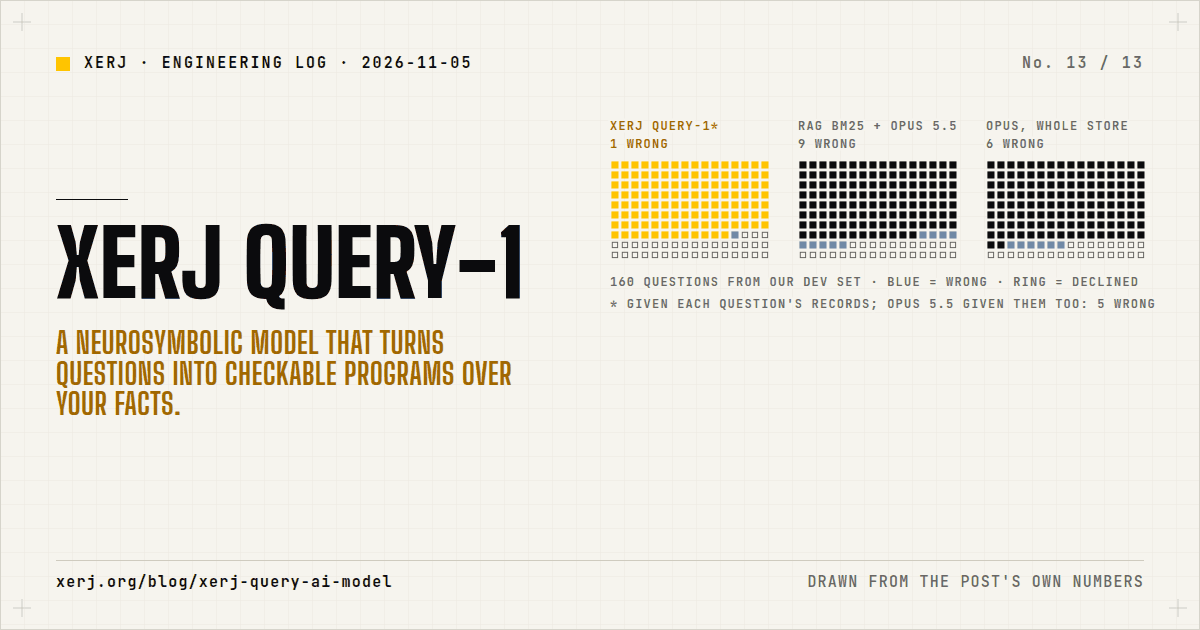
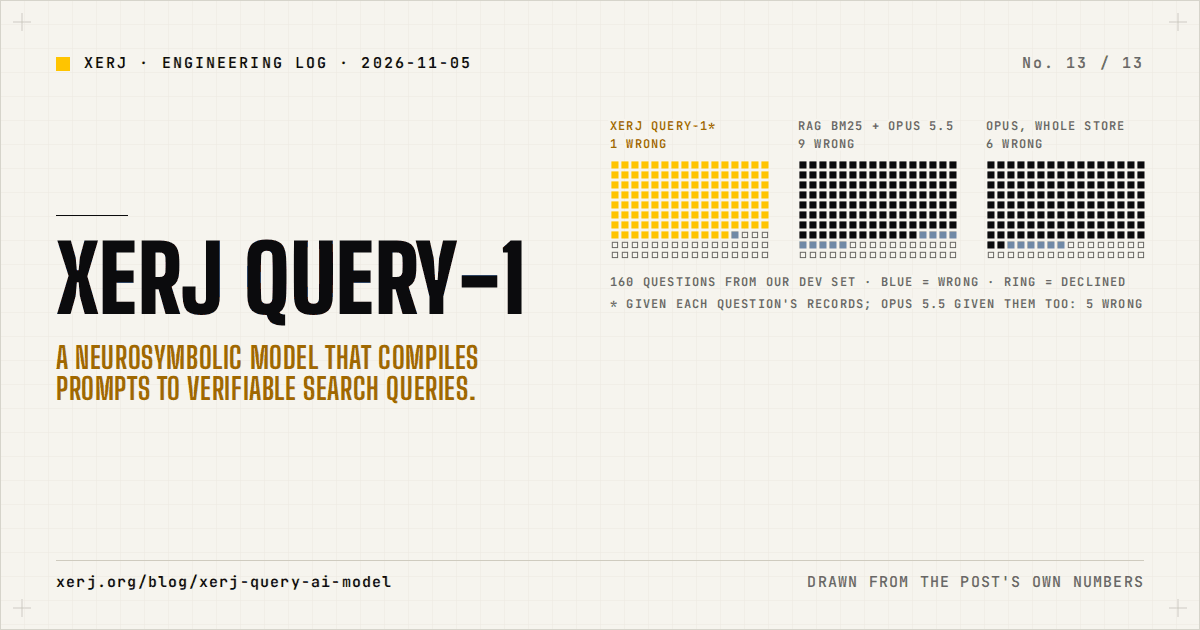
blog: keep the published titles; change only the wrong number
Owner: do not rename blog titles, only correct numbers that were wrong.
Restores the post's <title>, og:title, headline, the cover subtitle, the
/xerj-query-1 page title and the three chapter headings to their published
wording. The H1 keeps its wording with the measured ratio: 400-1,500x
becomes 320-1,570x (per-question cost, list prices, review 2026-11-06).
Cover and share image re-rendered. SEO --check all pass, seo_lint 0 gate
violations, landing guard passes.

diff --git a/landing/blog/xerj-query-ai-model.html b/landing/blog/xerj-query-ai-model.html
@@ -14,7 +14,7 @@
 <!-- ga4:end -->
 <meta charset="UTF-8">
 <meta name="viewport" content="width=device-width, initial-scale=1.0">
-<title>XERJ Query-1: a neurosymbolic model that turns questions into checkable programs</title>
+<title>XERJ Query-1: a neurosymbolic model that compiles prompts to verifiable search queries</title>
 <meta name="description" content="XERJ Query-1 turns a question into a small program the engine runs on your facts. Measured on 160 questions, with retrieval benchmarks and a dated correction.">
 <link rel="preconnect" href="https://fonts.googleapis.com">
 <link rel="preconnect" href="https://fonts.gstatic.com" crossorigin>
@@ -153,7 +153,7 @@
 <link rel="canonical" href="https://xerj.org/blog/xerj-query-ai-model">
 <meta property="og:site_name" content="XERJ.ai">
 <meta property="og:type" content="article">
-<meta property="og:title" content="XERJ Query-1: a neurosymbolic model that turns questions into checkable programs">
+<meta property="og:title" content="XERJ Query-1: a neurosymbolic model that compiles prompts to verifiable search queries">
 <meta property="og:description" content="XERJ Query-1 turns a question into a small program the engine runs on your facts. Measured on 160 questions, with retrieval benchmarks and a dated correction.">
 <meta property="og:url" content="https://xerj.org/blog/xerj-query-ai-model">
 <meta property="og:image" content="https://xerj.org/og/blog-xerj-query-ai-model.png">
@@ -162,7 +162,7 @@
 <meta property="og:image:alt" content="Cover: “XERJ Query-1” beside three grids of 160 squares from our 160-question test: XERJ Query-1, given each question’s own records, 1 wrong and 35 declined; RAG with BM25 top-10 on Opus 5.5, 9 wrong; Opus 5.5 reading the whole store, 6 wrong. Filled squares are right answers, blue squares wrong answers, rings declined">
 <meta property="og:locale" content="en_US">
 <meta name="twitter:card" content="summary_large_image">
-<meta name="twitter:title" content="XERJ Query-1: a neurosymbolic model that turns questions into checkable programs">
+<meta name="twitter:title" content="XERJ Query-1: a neurosymbolic model that compiles prompts to verifiable search queries">
 <meta name="twitter:description" content="XERJ Query-1 turns a question into a small program the engine runs on your facts. Measured on 160 questions, with retrieval benchmarks and a dated correction.">
 <meta name="twitter:image" content="https://xerj.org/og/blog-xerj-query-ai-model.png">
 <script type="application/ld+json">
@@ -198,7 +198,7 @@
 {
   "@context": "https://schema.org",
   "@type": "Article",
-  "headline": "XERJ Query-1: a neurosymbolic model that turns questions into checkable programs",
+  "headline": "XERJ Query-1: a neurosymbolic model that compiles prompts to verifiable search queries",
   "description": "XERJ Query-1 turns a question into a small program the engine runs on your facts. Measured on 160 questions, with retrieval benchmarks and a dated correction.",
   "url": "https://xerj.org/blog/xerj-query-ai-model",
   "image": "https://xerj.org/og/blog-xerj-query-ai-model.png",
@@ -279,7 +279,7 @@
   <p class="blog-crumb"><a href="/blog/">&larr; ALL POSTS · /BLOG</a></p>
   <figure class="blog-cover"><img src="/blog/covers/xerj-query-ai-model-hero.webp" width="1600" height="640" alt="Three grids of 160 squares: XERJ Query-1 1 wrong (given each question’s own records), RAG with BM25 top-10 on Opus 5.5 9 wrong, Opus 5.5 reading the whole store 6 wrong; filled squares right, blue wrong, rings declined" fetchpriority="high" decoding="async"></figure>
   <div class="uc-eyebrow">NEW AI MODEL · XERJ QUERY-1 · A NEUROSYMBOLIC PROMPT COMPILER BUILT INTO THE XERJ SEARCH ENGINE · SHIPS IN RC.101</div>
-  <h1>XERJ QUERY-1: A NEW NEUROSYMBOLIC MODEL.<br><span class="accent">IT TURNS QUESTIONS INTO CHECKABLE PROGRAMS OVER STORED FACTS, 320 TO 1,570 TIMES CHEAPER PER QUESTION THAN RAG AND GRAPHRAG ON OPUS 5.5 IN OUR TEST.</span></h1>
+  <h1>XERJ QUERY-1: A NEW NEUROSYMBOLIC MODEL.<br><span class="accent">IT COMPILES PROMPTS TO VERIFIABLE SEARCH QUERIES, 320-1,570× CHEAPER THAN RAG AND LLM.</span></h1>
   <p class="deck">A new way to answer questions over your data: the model writes a small program, the engine runs it over facts you have stored. No embeddings to build, no GPU to rent. Lookups come back with the records they used; counts come back with a hash of their program. Four CPU cores, offline, and in our 160-question test hundreds of times cheaper per question than RAG or an LLM reading the data.</p>
   <p class="blog-byline">XERJ ENGINEERING · PUBLISHED 2026-11-05 · <a href="#correction-2026-11-06">CORRECTED 2026-11-06</a></p>
 
@@ -559,7 +559,7 @@
 <!-- ============================ 05 · HOW WE MADE AND TRAINED IT ============================ -->
 <section class="scene-section" id="method">
   <div class="kicker"><span class="accent">05</span><span class="dash">·</span><span>HOW WE MADE AND TRAINED IT · A CPU TARGET, RENTED GPUS, DONATED MONEY, RULES WRITTEN FIRST</span></div>
-  <h2 class="scene" style="font-size:var(--fs-56);">HOW WE MADE AND TRAINED IT.<br><span class="accent">TRAINED IN FP16 ON RENTED GPUS, SERVED ON FOUR CPU CORES, PAID FOR BY DONATIONS.</span></h2>
+  <h2 class="scene" style="font-size:var(--fs-56);">HOW WE MADE AND TRAINED IT.<br><span class="accent">FP16 ON RENTED GPUS, INT8 ON FOUR CPU CORES, PAID FOR BY DONATIONS.</span></h2>
 
   <p class="wide">Our goal was a model that answers on an ordinary CPU, with no GPU, and with nothing leaving the machine; the shipped model answers in about 0.22 s on four laptop cores (about 1 s on a loaded aarch64 box). That rules out most of what a model is usually allowed to be. It has to be small enough to sit beside the index in memory, fast enough to answer in a fraction of a second on four cores, and exact enough that its output can be run rather than read. Everything below follows from that target.</p>
 
@@ -869,7 +869,7 @@ doc6@v1/discharge  | Gacunas River | discharge | number 7567 m3/s</pre>
 <!-- ============================ 07 · TESTS AND BENCHMARKS ============================ -->
 <section class="scene-section" id="headtohead">
   <div class="kicker"><span class="accent">07</span><span class="dash">·</span><span>TESTS AND BENCHMARKS · THE HEAD-TO-HEAD, THREE WORKED QUESTIONS, THE STANDARD EVALUATION, EVERY CAVEAT</span></div>
-  <h2 class="scene" style="font-size:var(--fs-56);">TESTS AND BENCHMARKS.<br><span class="accent">1 WRONG ANSWER IN 160 AGAINST 9 TO 15 FOR RAG ON OPUS 5.5, WITH ITS OWN COLLECTION GIVEN. HUNDREDS OF TIMES CHEAPER.</span></h2>
+  <h2 class="scene" style="font-size:var(--fs-56);">TESTS AND BENCHMARKS.<br><span class="accent">NINE TIMES FEWER WRONG ANSWERS THAN RAG ON OPUS 5.5. HUNDREDS OF TIMES CHEAPER.</span></h2>
 
   <p class="wide"><strong>The head-to-head.</strong> We merged <strong>95 collections</strong> of our standard evaluation into one store of <strong>5,000 records</strong> (subject, relation, typed value, source sentence): 82 distinct collections and 4,305 distinct records, because 13 collections were included twice by mistake. 87% of the records come from public data (MoMA, Tate, OurAirports, USGS, the NASA Exoplanet Archive, UCI Online Retail and PyPI metadata), the rest from invented worlds; 357,085 characters, 172,870 Opus tokens. We asked <strong>160 questions</strong>, forty from each of four families, all from our 1,600-question development set; the sampling script was not saved. Every method got the same rules as the reference prompt: answer, say UNKNOWN, or say CONFLICT, and a wrong answer costs two right ones. Every output was scored by the same frozen scorer against the same gold. The sample score is 100 times a method's family-weighted Net over the Net of Opus 5.5 given perfect retrieval, so that reader defines 100. Intervals are paired bootstraps over collections, 4,000 draws.</p>
 
@@ -1113,7 +1113,7 @@ RETURN</pre></div>
 
 <section class="scene-section" id="next">
   <div class="kicker"><span class="accent">08</span><span class="dash">·</span><span>DISCLOSURE, AND WHAT WE NEED NEXT · WHAT IS OPEN, WHAT IS NOT, THE GAPS, AND THE ASK</span></div>
-  <h2 class="scene" style="font-size:var(--fs-56);">DISCLOSURE, AND WHAT WE NEED NEXT.<br><span class="accent">PUBLISHED METHOD, OPEN GAPS, AND 100,000 H100 GPU-HOURS.</span></h2>
+  <h2 class="scene" style="font-size:var(--fs-56);">DISCLOSURE, AND WHAT WE NEED NEXT.<br><span class="accent">OPEN METHOD, OPEN GAPS, AND 100,000 H100 GPU-HOURS.</span></h2>
 
   <p class="wide"><strong>What is open, and what is not.</strong> The XERJ engine is open source under Apache-2.0. The method, rules and numbers are in this post; the runs, scripts and provenance record are not public yet., mapped in our provenance record. The model itself is not open yet. XERJ Query-1 ships as a compiled part of the engine binary plus a separate model bundle, and the crates that train and serve it are proprietary for now. We would rather say that plainly than let the word "open" do work it has not earned.</p>
 

diff --git a/landing/xerj-query-1.html b/landing/xerj-query-1.html
@@ -14,7 +14,7 @@
 <!-- ga4:end -->
 <meta charset="UTF-8">
 <meta name="viewport" content="width=device-width, initial-scale=1.0">
-<title>XERJ Query-1: prompts to programs checked against your facts</title>
+<title>XERJ Query-1: prompts to verifiable search programs</title>
 
 <meta name="description" content="XERJ Query-1 compiles a plain question into a program the engine runs over your facts and shows step by step. Six capabilities, real examples, compared with RAG.">
 <link rel="preconnect" href="https://fonts.googleapis.com">
@@ -70,7 +70,7 @@
 <link rel="canonical" href="https://xerj.org/xerj-query-1">
 <meta property="og:site_name" content="XERJ.ai">
 <meta property="og:type" content="website">
-<meta property="og:title" content="XERJ Query-1: prompts to programs checked against your facts">
+<meta property="og:title" content="XERJ Query-1: prompts to verifiable search programs">
 <meta property="og:description" content="XERJ Query-1 compiles a plain question into a program the engine runs over your facts and shows step by step. Six capabilities, real examples, compared with RAG.">
 <meta property="og:url" content="https://xerj.org/xerj-query-1">
 <meta property="og:image" content="https://xerj.org/og/xerj-card.png">
@@ -79,7 +79,7 @@
 <meta property="og:image:alt" content="XERJ.ai — the search engine built for AI agents">
 <meta property="og:locale" content="en_US">
 <meta name="twitter:card" content="summary_large_image">
-<meta name="twitter:title" content="XERJ Query-1: prompts to programs checked against your facts">
+<meta name="twitter:title" content="XERJ Query-1: prompts to verifiable search programs">
 <meta name="twitter:description" content="XERJ Query-1 compiles a plain question into a program the engine runs over your facts and shows step by step. Six capabilities, real examples, compared with RAG.">
 <meta name="twitter:image" content="https://xerj.org/og/xerj-card.png">
 <script type="application/ld+json">
@@ -115,7 +115,7 @@
 {
   "@context": "https://schema.org",
   "@type": "WebPage",
-  "name": "XERJ Query-1: prompts to programs checked against your facts",
+  "name": "XERJ Query-1: prompts to verifiable search programs",
   "description": "XERJ Query-1 compiles a plain question into a program the engine runs over your facts and shows step by step. Six capabilities, real examples, compared with RAG.",
   "url": "https://xerj.org/xerj-query-1",
   "image": "https://xerj.org/og/xerj-card.png",

diff --git a/scripts/seo/blog_covers/covers.py b/scripts/seo/blog_covers/covers.py
@@ -132,7 +132,7 @@ POSTS: list[dict[str, str]] = [
          og_alt="Cover: 100 in huge display type above the word contributors, then 12,000 stars in 12 days on a yellow highlight and 17,486 GitHub stars today; beside it a yellow area chart of the running star count from July to October 2026 that climbs steeply from 5,000 stars on Oct 15 to 17,000 stars on Oct 27; on the right a 10 by 10 grid of the 100 contributors' GitHub avatars"),
     dict(slug="xerj-query-ai-model", date="2026-11-05", motif="wrong160",
          title="XERJ Query-1",
-         subtitle="A neurosymbolic model that turns questions into checkable programs over your facts.",
+         subtitle="A neurosymbolic model that compiles prompts to verifiable search queries.",
          alt="Three grids of 160 squares: XERJ Query-1 1 wrong (given each question’s own records), RAG with BM25 top-10 on Opus 5.5 9 wrong, Opus 5.5 reading the whole store 6 wrong; filled squares right, blue wrong, rings declined",
          og_alt="Cover: “XERJ Query-1” beside three grids of 160 squares from our 160-question test: XERJ Query-1, given each question’s own records, 1 wrong and 35 declined; RAG with BM25 top-10 on Opus 5.5, 9 wrong; Opus 5.5 reading the whole store, 6 wrong. Filled squares are right answers, blue squares wrong answers, rings declined"),
 ]

diff --git a/scripts/seo/pagedata.py b/scripts/seo/pagedata.py
@@ -90,7 +90,7 @@ PAGES: dict[str, dict[str, str]] = {
     ),
     "xerj-query-1.html": dict(
         label="XERJ Query-1", kind="webpage",
-        title="XERJ Query-1: prompts to programs checked against your facts",
+        title="XERJ Query-1: prompts to verifiable search programs",
         description="XERJ Query-1 compiles a plain question into a program the engine runs over your facts and shows step by step. Six capabilities, real examples, compared with RAG.",
     ),
     "donate.html": dict(
@@ -259,7 +259,7 @@ PAGES: dict[str, dict[str, str]] = {
     # XERJ Query-1 launch post, 2026-11-05 (rc.101). published/updated pinned.
     "blog/xerj-query-ai-model.html": dict(
         label="XERJ Query-1", kind="article",
-        title="XERJ Query-1: a neurosymbolic model that turns questions into checkable programs",
+        title="XERJ Query-1: a neurosymbolic model that compiles prompts to verifiable search queries",
         description="XERJ Query-1 turns a question into a small program the engine runs on your facts. Measured on 160 questions, with retrieval benchmarks and a dated correction.",
         published="2026-11-05", updated="2026-11-06",
         og_image="og/blog-xerj-query-ai-model.png",
